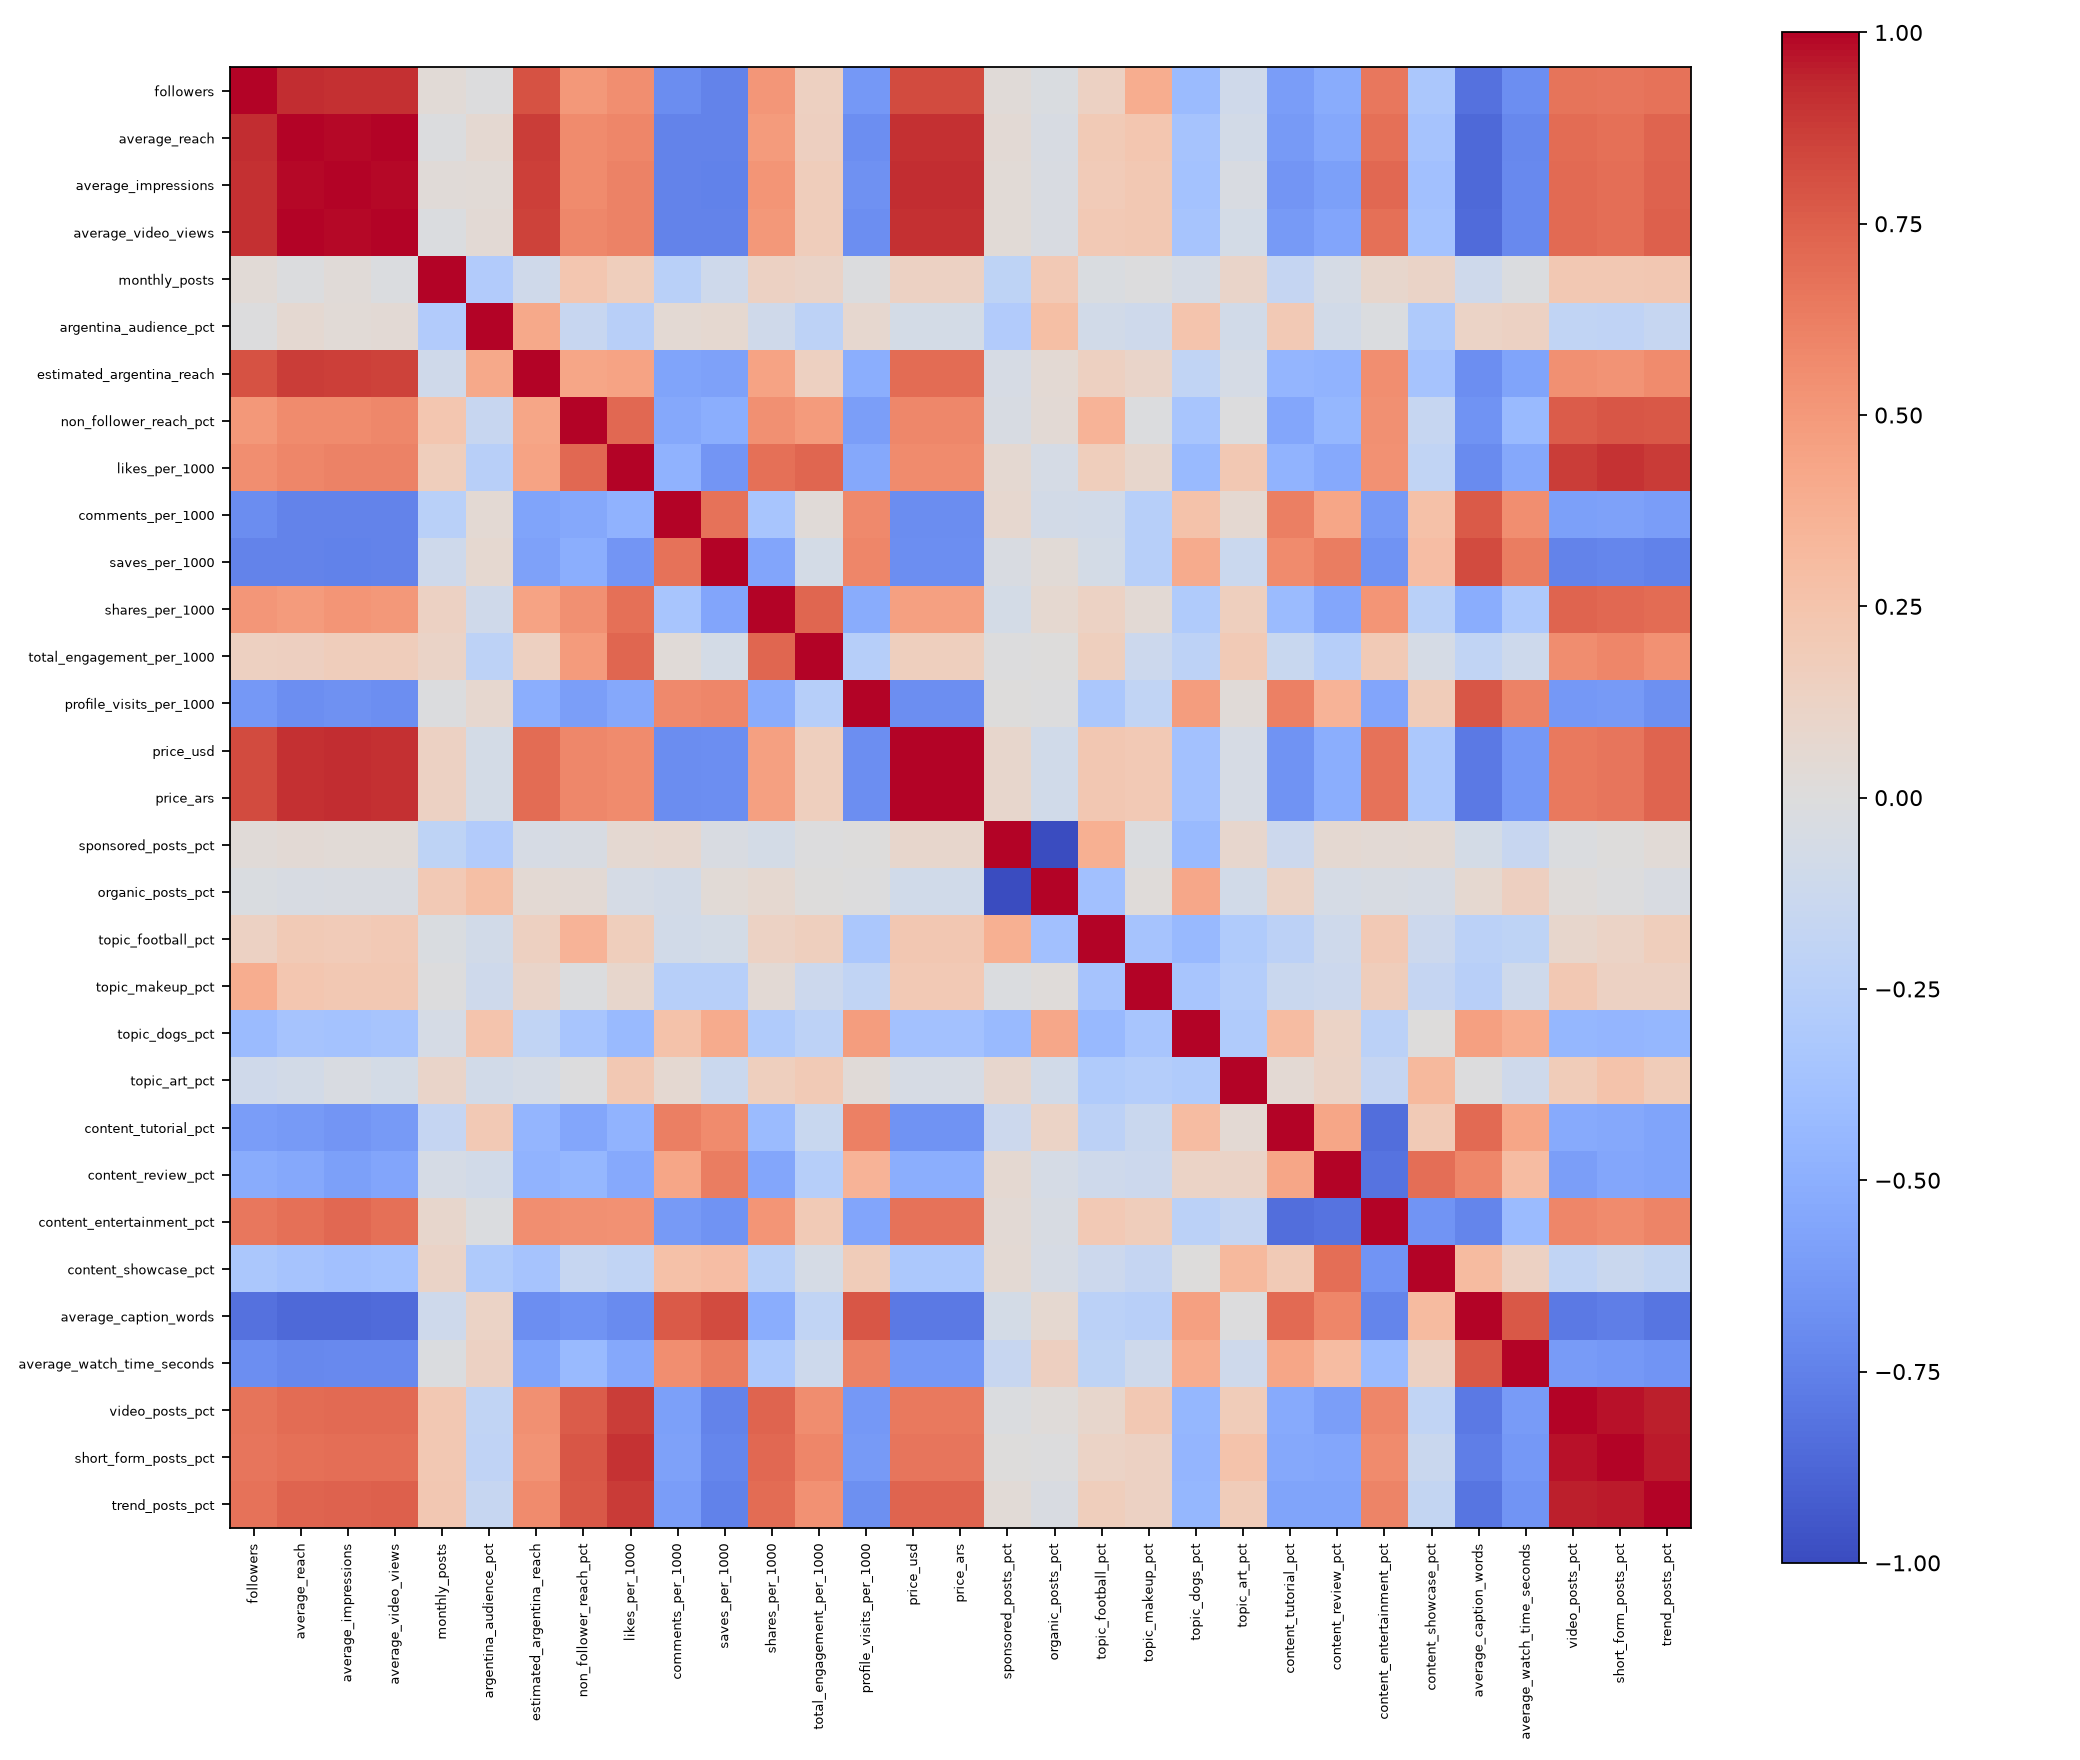
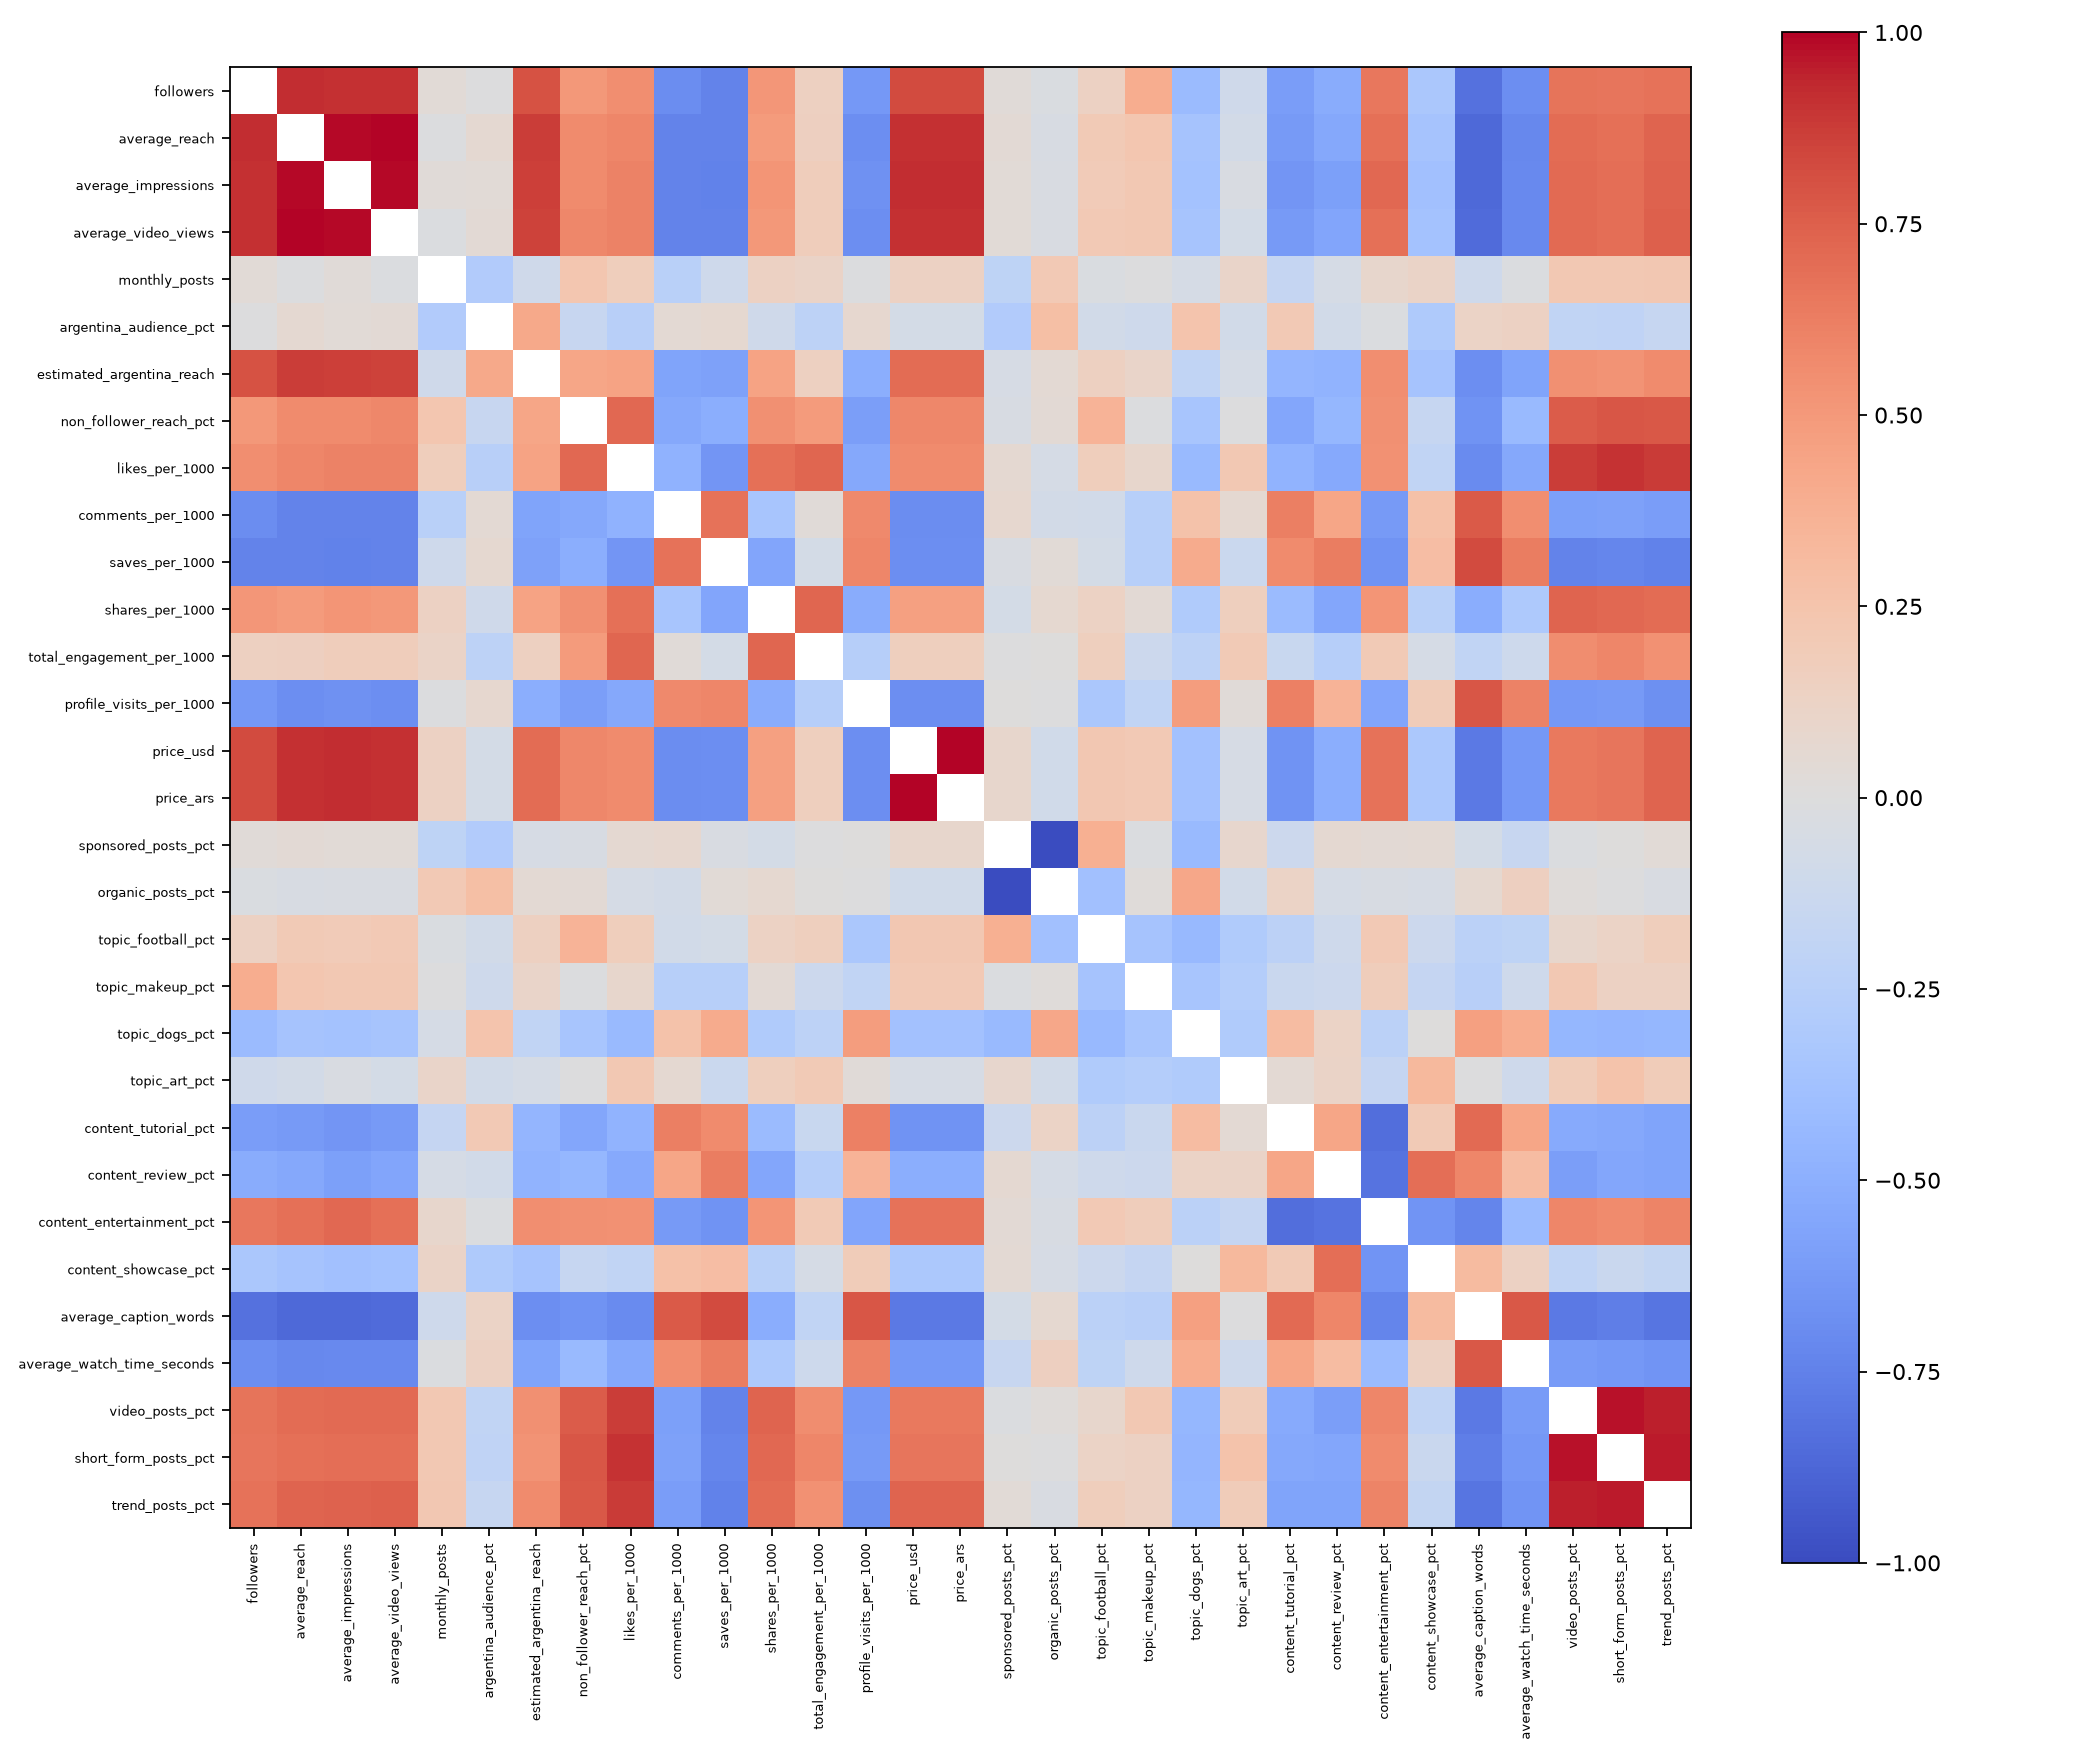
feat(tp4): quita la diagonal de los mapas de correlaciones

Changed region(s): [[0.1562, 0.0938, 0.8125, 0.875], [0.0938, 0.0312, 0.1562, 0.0938]]

diff --git a/TP4/analysis/plots.py b/TP4/analysis/plots.py
@@ -205,9 +205,17 @@ def _coincident_groups(tips, distance=ARROW_LABEL_MERGE_DISTANCE):
     return groups
 
 
+def _show_correlations(ax, correlations):
+    """Mapa de calor sin la diagonal: la correlación de una variable consigo misma es 1 y no informa nada."""
+    off_diagonal = np.ma.masked_where(np.eye(len(correlations), dtype=bool), correlations.to_numpy())
+    cmap = plt.get_cmap('coolwarm').copy()
+    cmap.set_bad('white')
+    return ax.imshow(off_diagonal, vmin=-1, vmax=1, cmap=cmap)
+
+
 def plot_correlations(correlations, output):
     fig, ax = plt.subplots(figsize=(13, 11))
-    image = ax.imshow(correlations, vmin=-1, vmax=1, cmap='coolwarm')
+    image = _show_correlations(ax, correlations)
     indices = range(len(correlations))
     ax.set_xticks(indices, correlations.columns, rotation=90, fontsize=6)
     ax.set_yticks(indices, correlations.columns, fontsize=6)
@@ -218,8 +226,10 @@ def plot_correlations(correlations, output):
 def plot_variable_blocks(blocks: VariableBlocks, output):
     correlations = blocks.ordered_correlations
     fig, ax = plt.subplots(figsize=(13, 11))
-    image = ax.imshow(correlations, vmin=-1, vmax=1, cmap='coolwarm')
+    image = _show_correlations(ax, correlations)
     for (row, column), value in np.ndenumerate(correlations.to_numpy()):
+        if row == column:
+            continue
         ax.text(column, row, f'{value:.1f}'.replace('0.', '.'), ha='center', va='center', fontsize=5)
     start = 0
     for size in blocks.membership.value_counts(sort=False).loc[blocks.membership.unique()]:
